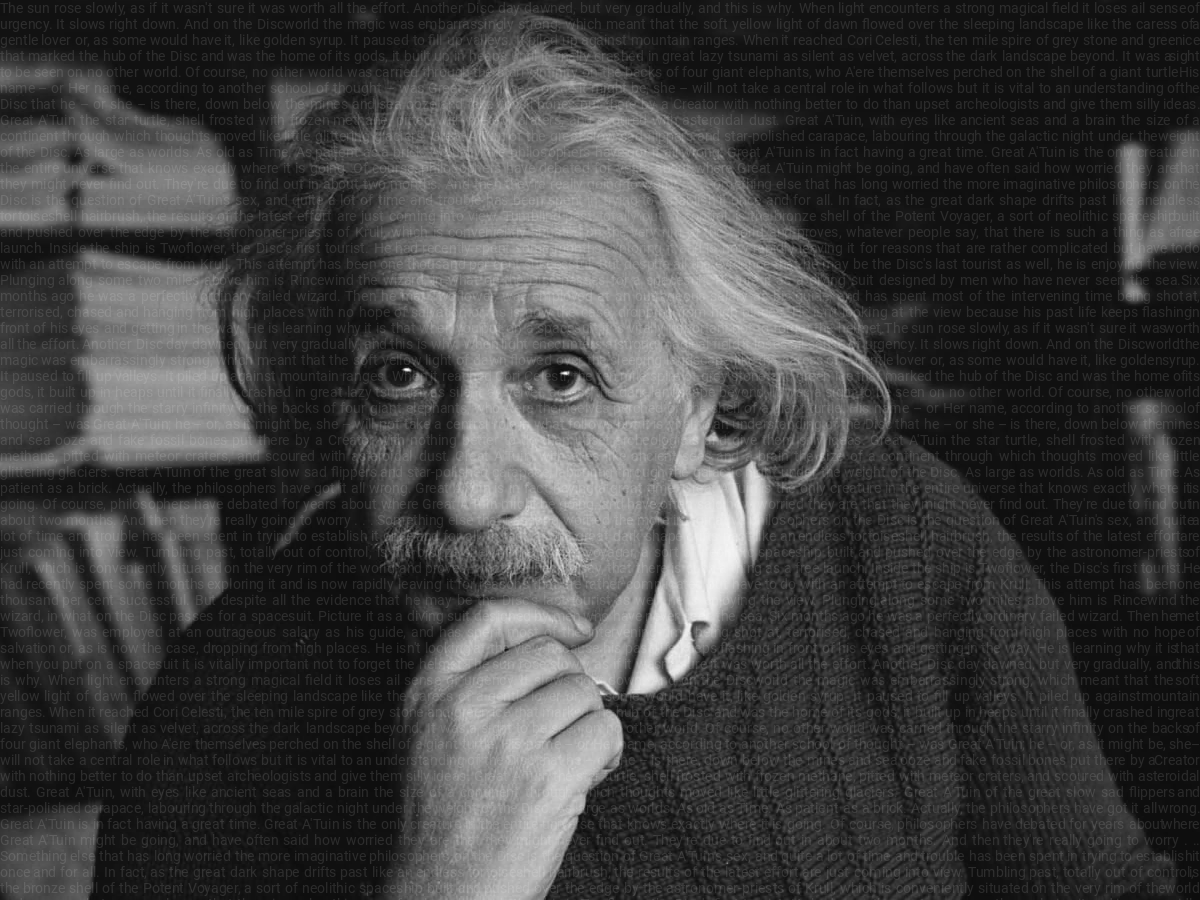
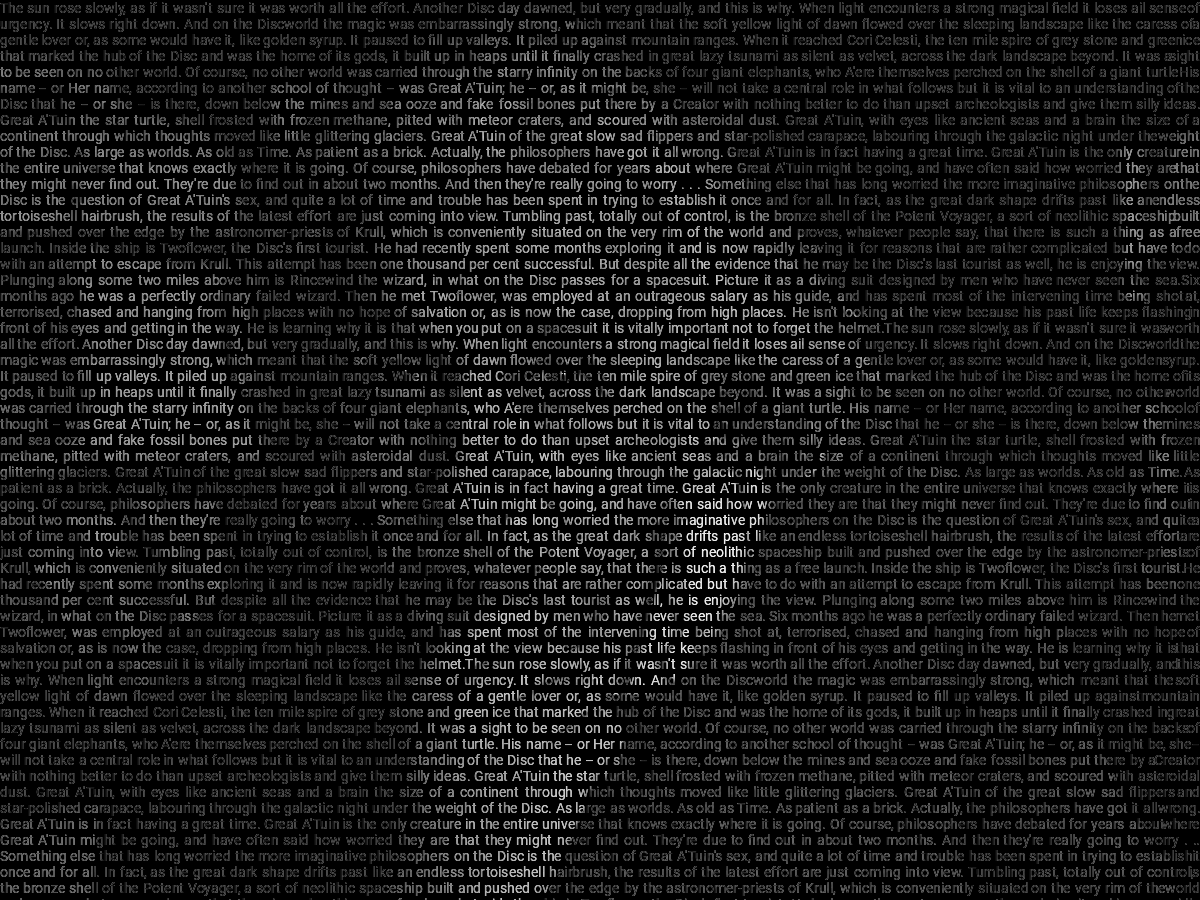
Added background property to handle opacity

diff --git a/app.py b/app.py
@@ -1,10 +1,14 @@
 from image_util import combine
 import time
 
-input_file_paths = ['einshtein.jpeg','groot.jpg','arcane.jpg','nature.jpg']
+input_file_paths = ['einshtein.jpeg']
 font = 'Roboto-Regular.ttf'
-font_color = (255, 255, 255, 30)
+font_color = (255, 255, 255, 10) #alpha from 0 to 255
 font_size = 14
+# Example of overlay backgrounds:
+# Fully transparent: background = (255,255,255,0) 
+# Fully black (only font alpha used on combine process): background = (0,0,0,255) 
+background = (0,0,0,255) 
 
 text = ''
 with open('input.txt') as txt_file:
@@ -14,5 +18,5 @@ for path in input_file_paths:
     print('Start process: %s' % path)
     t = time.process_time()
 
-    combine(path, text, font, font_color, font_size)
+    combine(path, text, font, font_color, font_size, background)
     print('Process finished: %s, %.2fs' % (path, time.process_time() - t))

diff --git a/image_util.py b/image_util.py
@@ -143,9 +143,9 @@ class ImageText(object):
             height += text_height
         return (box_width, height - y)
 
-def combine(input_file_path:str, text:str, font:str, font_color, font_size):
+def combine(input_file_path:str, text:str, font:str, font_color, font_size, background=(255, 255, 255, 0)):
     layer_image = Image.open(input_file_path).convert("RGBA")
-    layer_text = ImageText((layer_image.width, layer_image.height), background=(255, 255, 255, 0)) #full transparent bg for this layer
+    layer_text = ImageText((layer_image.width, layer_image.height), background=background) #full transparent bg for this layer
 
     layer_text.write_text_box((0, 0), text, box_width=layer_image.width, font_filename=font, font_size=font_size, color=font_color, place='justify')
     
